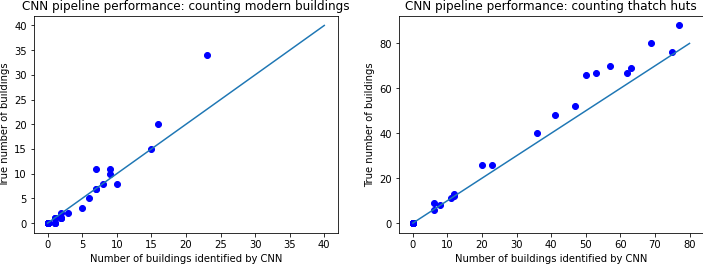
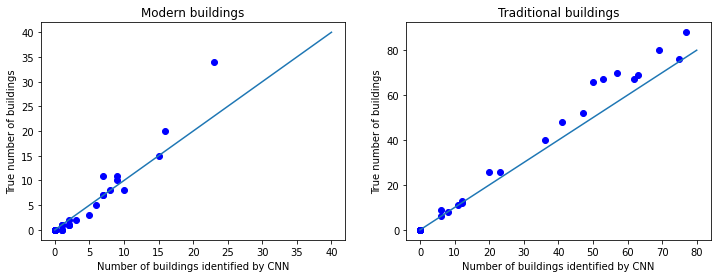
Updated comments and building counts figure

diff --git a/README.md b/README.md
@@ -14,7 +14,7 @@ I'm proud to state that **this work is my own**. I was responsible for collectin
 
 &nbsp;
 
-As a first step towards the goal of extracting features that are relevant to spillover forecasts, I have created a CNN that identifies buildings in satellite imagery. This CNN is based on the [U-Net image segmentation design](https://link.springer.com/chapter/10.1007%2F978-3-319-24574-4_28), using an [EfficientNet](https://arxiv.org/abs/1905.11946) as an encoder and a simple decoder. Specifically, this CNN will classify each pixel in an image as traditional hut (circular thatch structure), modern building (rectangular aluminum roof), or background. The figures below show an example of the CNN's ability to segment the different building types.  
+As a first step towards the goal of extracting features that are relevant to spillover forecasts, I have created a CNN that identifies buildings in satellite imagery. This CNN is based on the [U-Net image segmentation design](https://link.springer.com/chapter/10.1007%2F978-3-319-24574-4_28), using an [EfficientNet](https://arxiv.org/abs/1905.11946) as an encoder and a simple decoder. Specifically, this CNN will classify each pixel in an image as traditional building (circular thatch structure), modern building (rectangular aluminum roof), or background. The figures below show an example of the CNN's ability to segment the different building types.  
 
 &nbsp;
 
@@ -31,7 +31,7 @@ By segmenting the images in this way, I can then use OpenCV tools to identify gr
 
 &nbsp;
 
-Associating pixel groups with individual pixels, in turn, allows the CNN pipeline to "count" the number of different building types in an image. The plots below show the CNN pipeline's ability to count modern buildings (left) and traditional thatch huts (right) in test images that were omitted from the training process. Generally, the CNN is able to accurately assess the number of building types in an image -- however, it is also clear that the CNN pipeline underestimates areas with high building density.   
+Associating pixel groups with individual pixels, in turn, allows the CNN pipeline to "count" the number of different building types in an image. The plots below show the CNN pipeline's ability to count modern buildings (left) and traditional buildings (right) in test images that were omitted from the training process. Generally, the CNN is able to accurately assess the number of building types in an image -- however, it is also clear that the CNN pipeline underestimates areas with high building density.   
 \
 &nbsp;
 
